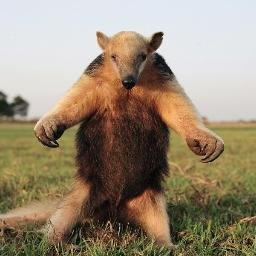
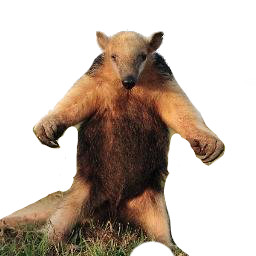
Added background and new anteater picture

diff --git a/Clicker.py b/Clicker.py
@@ -2,8 +2,6 @@ SIZE = (640, 480)
 FPS = 30
 
 
-
-
 class Item:
     def __init__(self, rect, text, base_price, base_cps_each):
         self.rect = rect
@@ -49,7 +47,7 @@ pygame.init()
 fpsClock = pygame.time.Clock()
 
 screen = pygame.display.set_mode(SIZE)
-pygame.display.set_caption("zotclicker")
+pygame.display.set_caption("ZotClicker")
 
 BLACK = pygame.Color(0, 0, 0)
 WHITE = pygame.Color(255, 255, 255)
@@ -59,7 +57,8 @@ BUTTON_BORDER_COLOR = pygame.Color(85, 50, 232)
 
 FONT = pygame.font.SysFont("sysfont", 24)
 
-COOKIE_IMAGE = pygame.image.load("zot.jpg")
+COOKIE_IMAGE = pygame.image.load("anteater.png")
+BACKGROUND_IMAGE = pygame.image.load("background.jpg")
 
 COOKIES = 0
 CPS = 0.0
@@ -79,7 +78,7 @@ def make_items(text_list, base_price_list, cps_list, rect, spacing):
     return buttons
 
 
-cookie_rect = Rect(25, 250, COOKIE_IMAGE.get_width(), COOKIE_IMAGE.get_height())
+cookie_rect = Rect(25, 150, COOKIE_IMAGE.get_width(), COOKIE_IMAGE.get_height())
 
 
 def click_cookie():
@@ -107,6 +106,7 @@ def update_cookies():
 
 while True:
     screen.fill(BLACK)
+    screen.blit(BACKGROUND_IMAGE, Rect(0,0,640 ,480))
     screen.blit(COOKIE_IMAGE, cookie_rect)
 
     #draw cookies count
